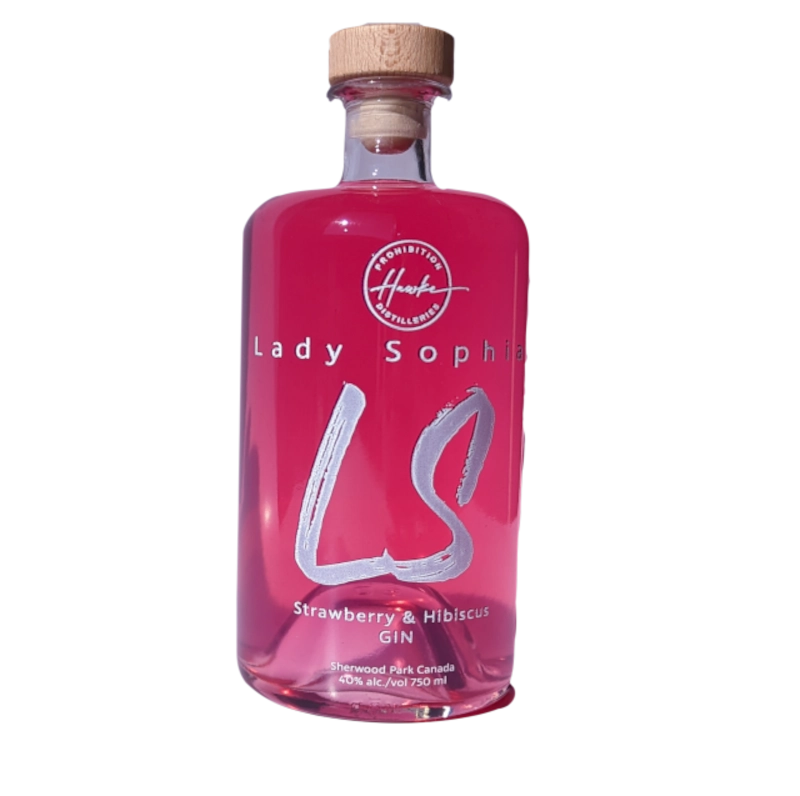
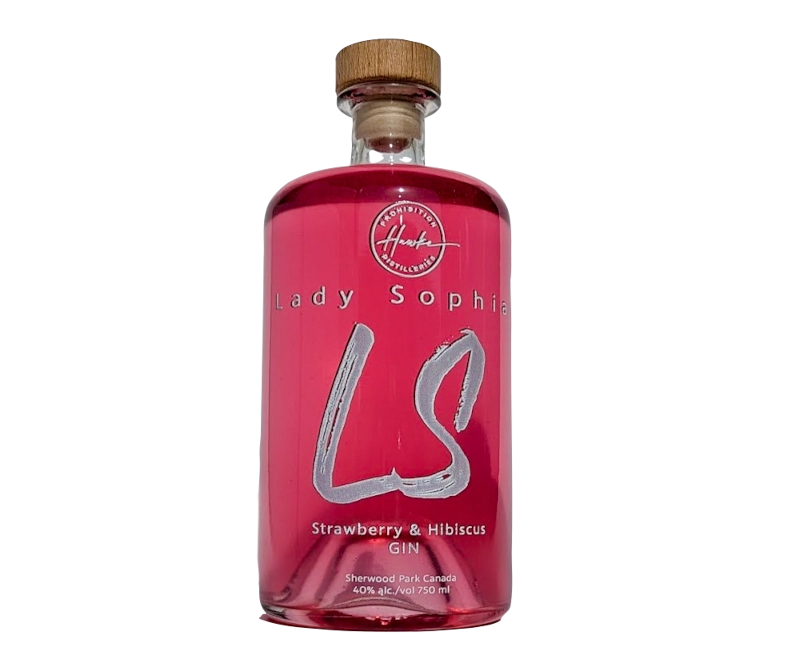
Update

Changed region(s): [[0.2812, 0.0301, 0.6875, 0.9639]]

diff --git a/src/pages/home/Carousel.js b/src/pages/home/Carousel.js
@@ -35,7 +35,7 @@ export default class Example extends Component {
 	  },
 	  {
 		key: uuidv4(),
-		content:  <a href={process.env.PUBLIC_URL +"/product/" + 41435507064983}><img width="380" height="400" src='/assets/img/Product3.webp' alt="3"/></a>
+		content:  <a href={process.env.PUBLIC_URL +"/product/" + 41907321995415}><img width="380" height="400" src='/assets/img/Product5.webp' alt="5"/></a>
 	  },
 	 
 	].map((slide, index) => {
